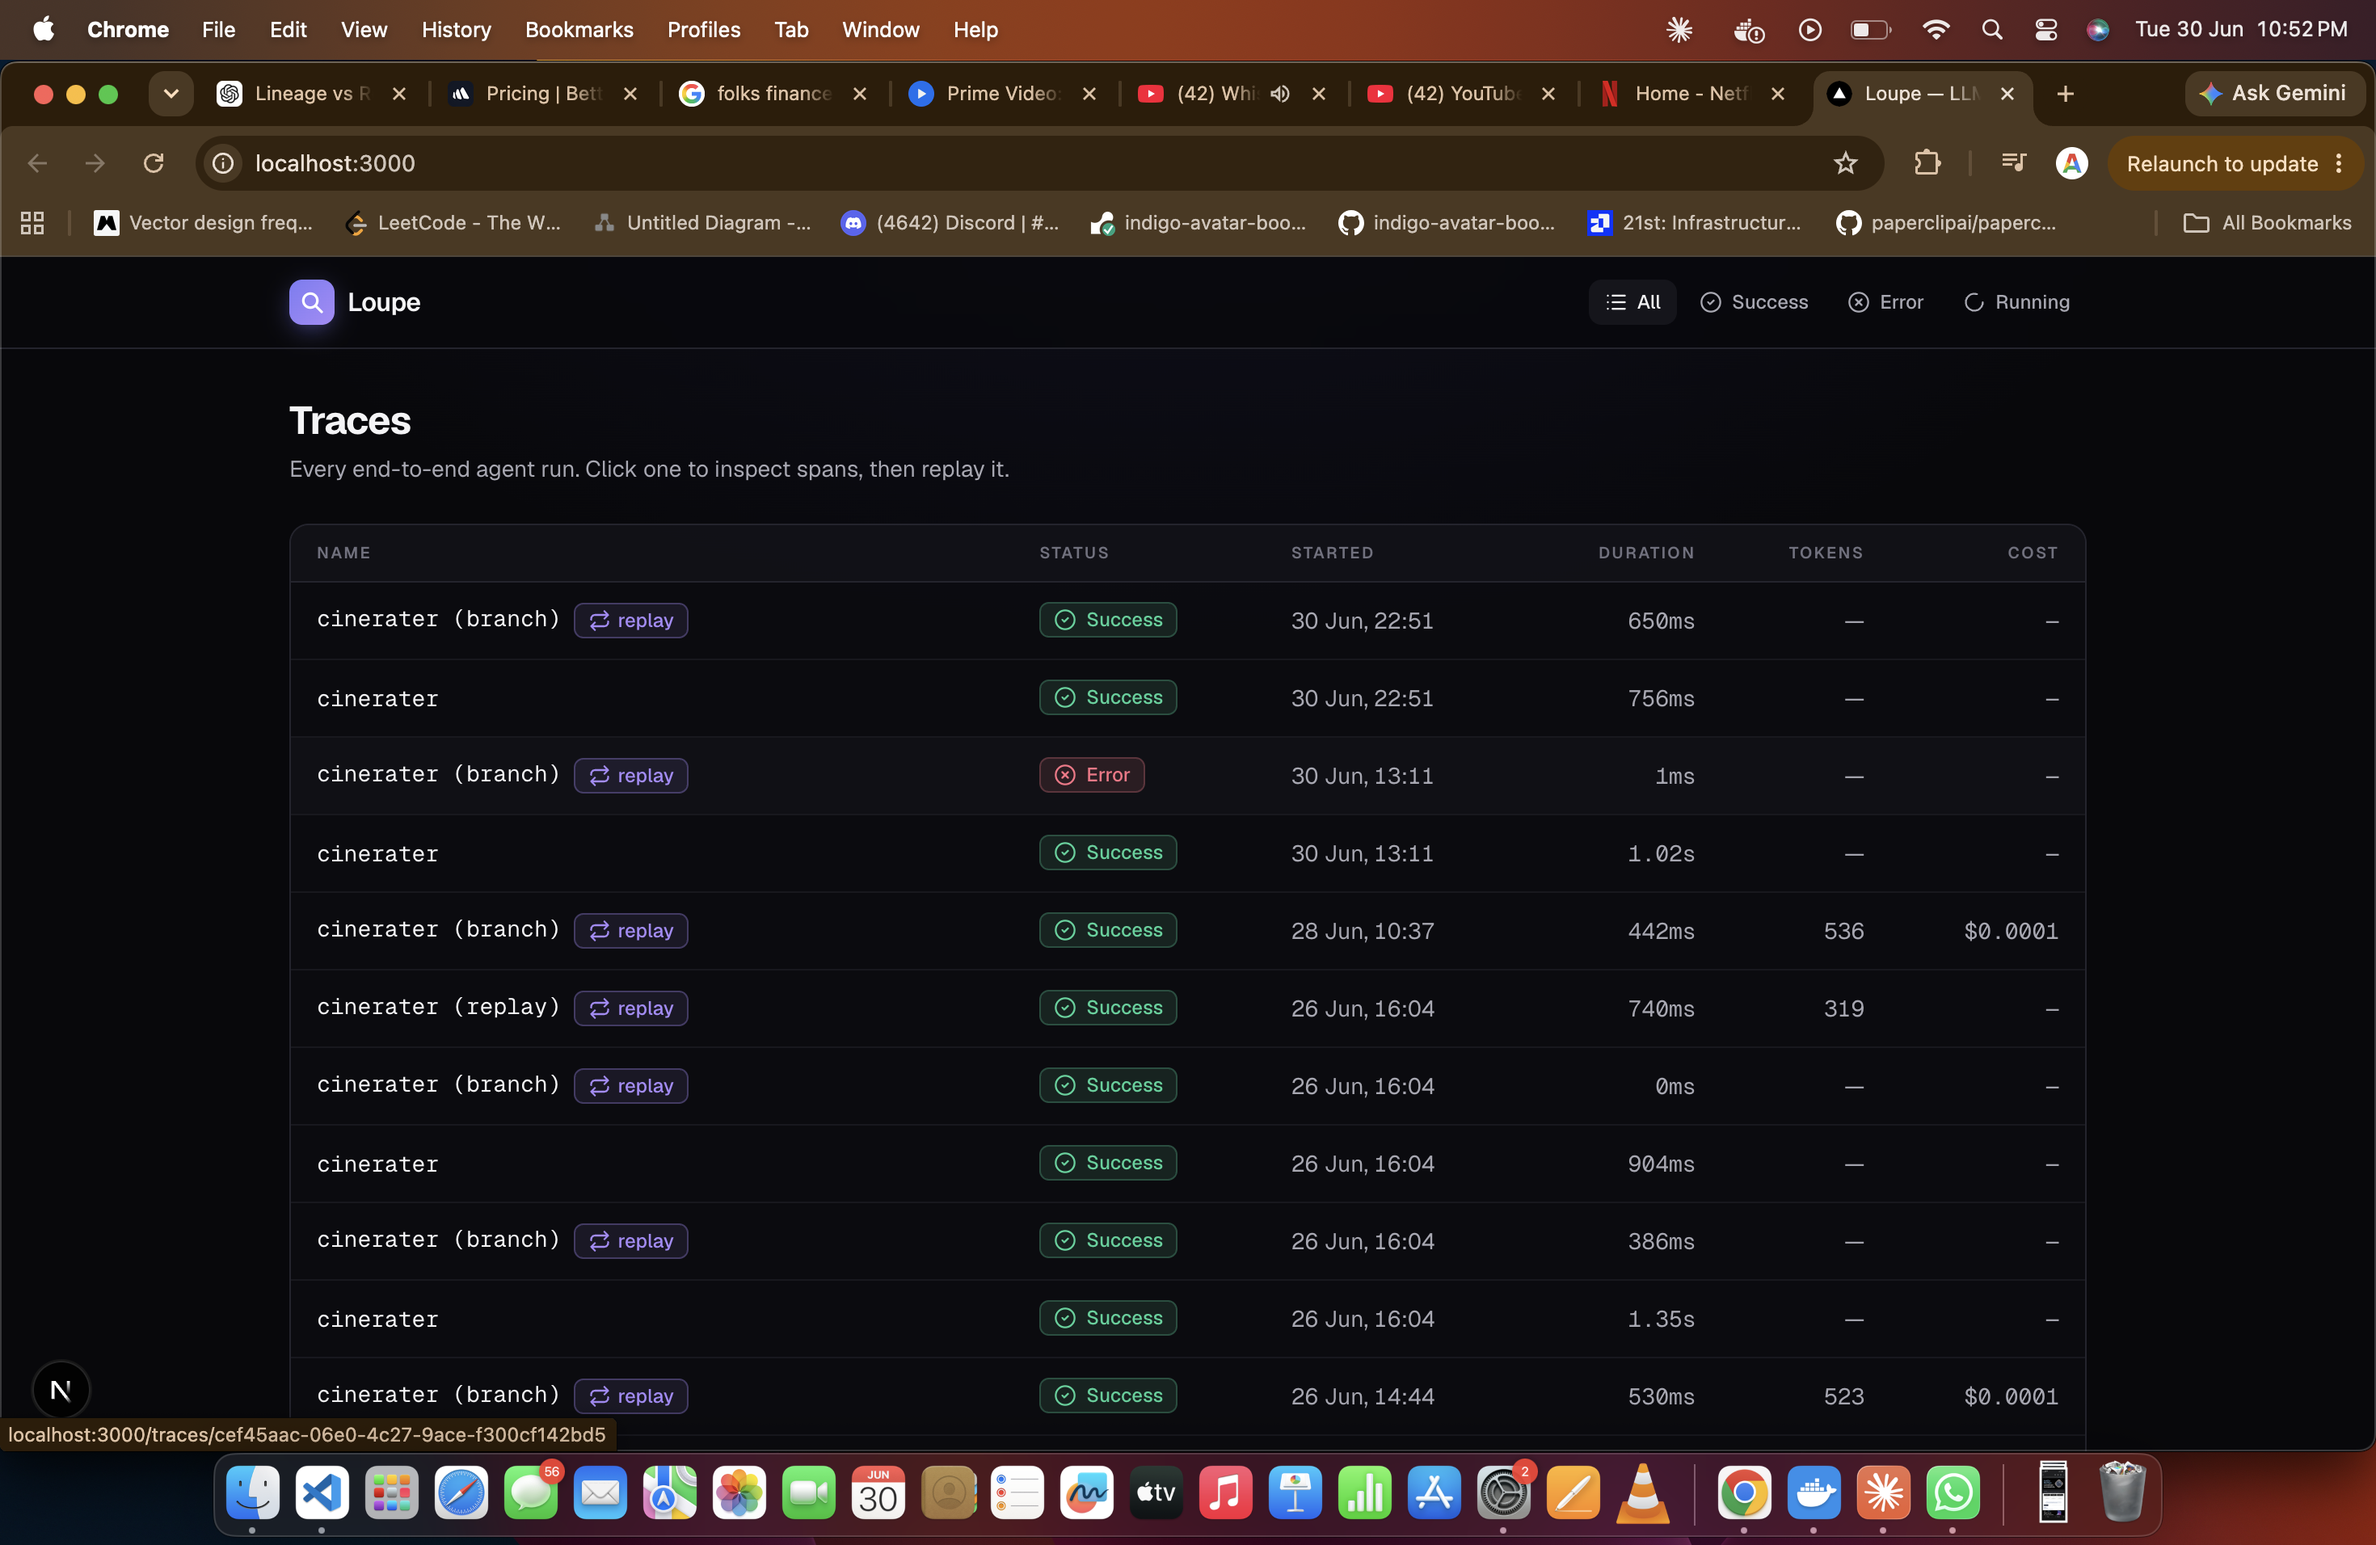
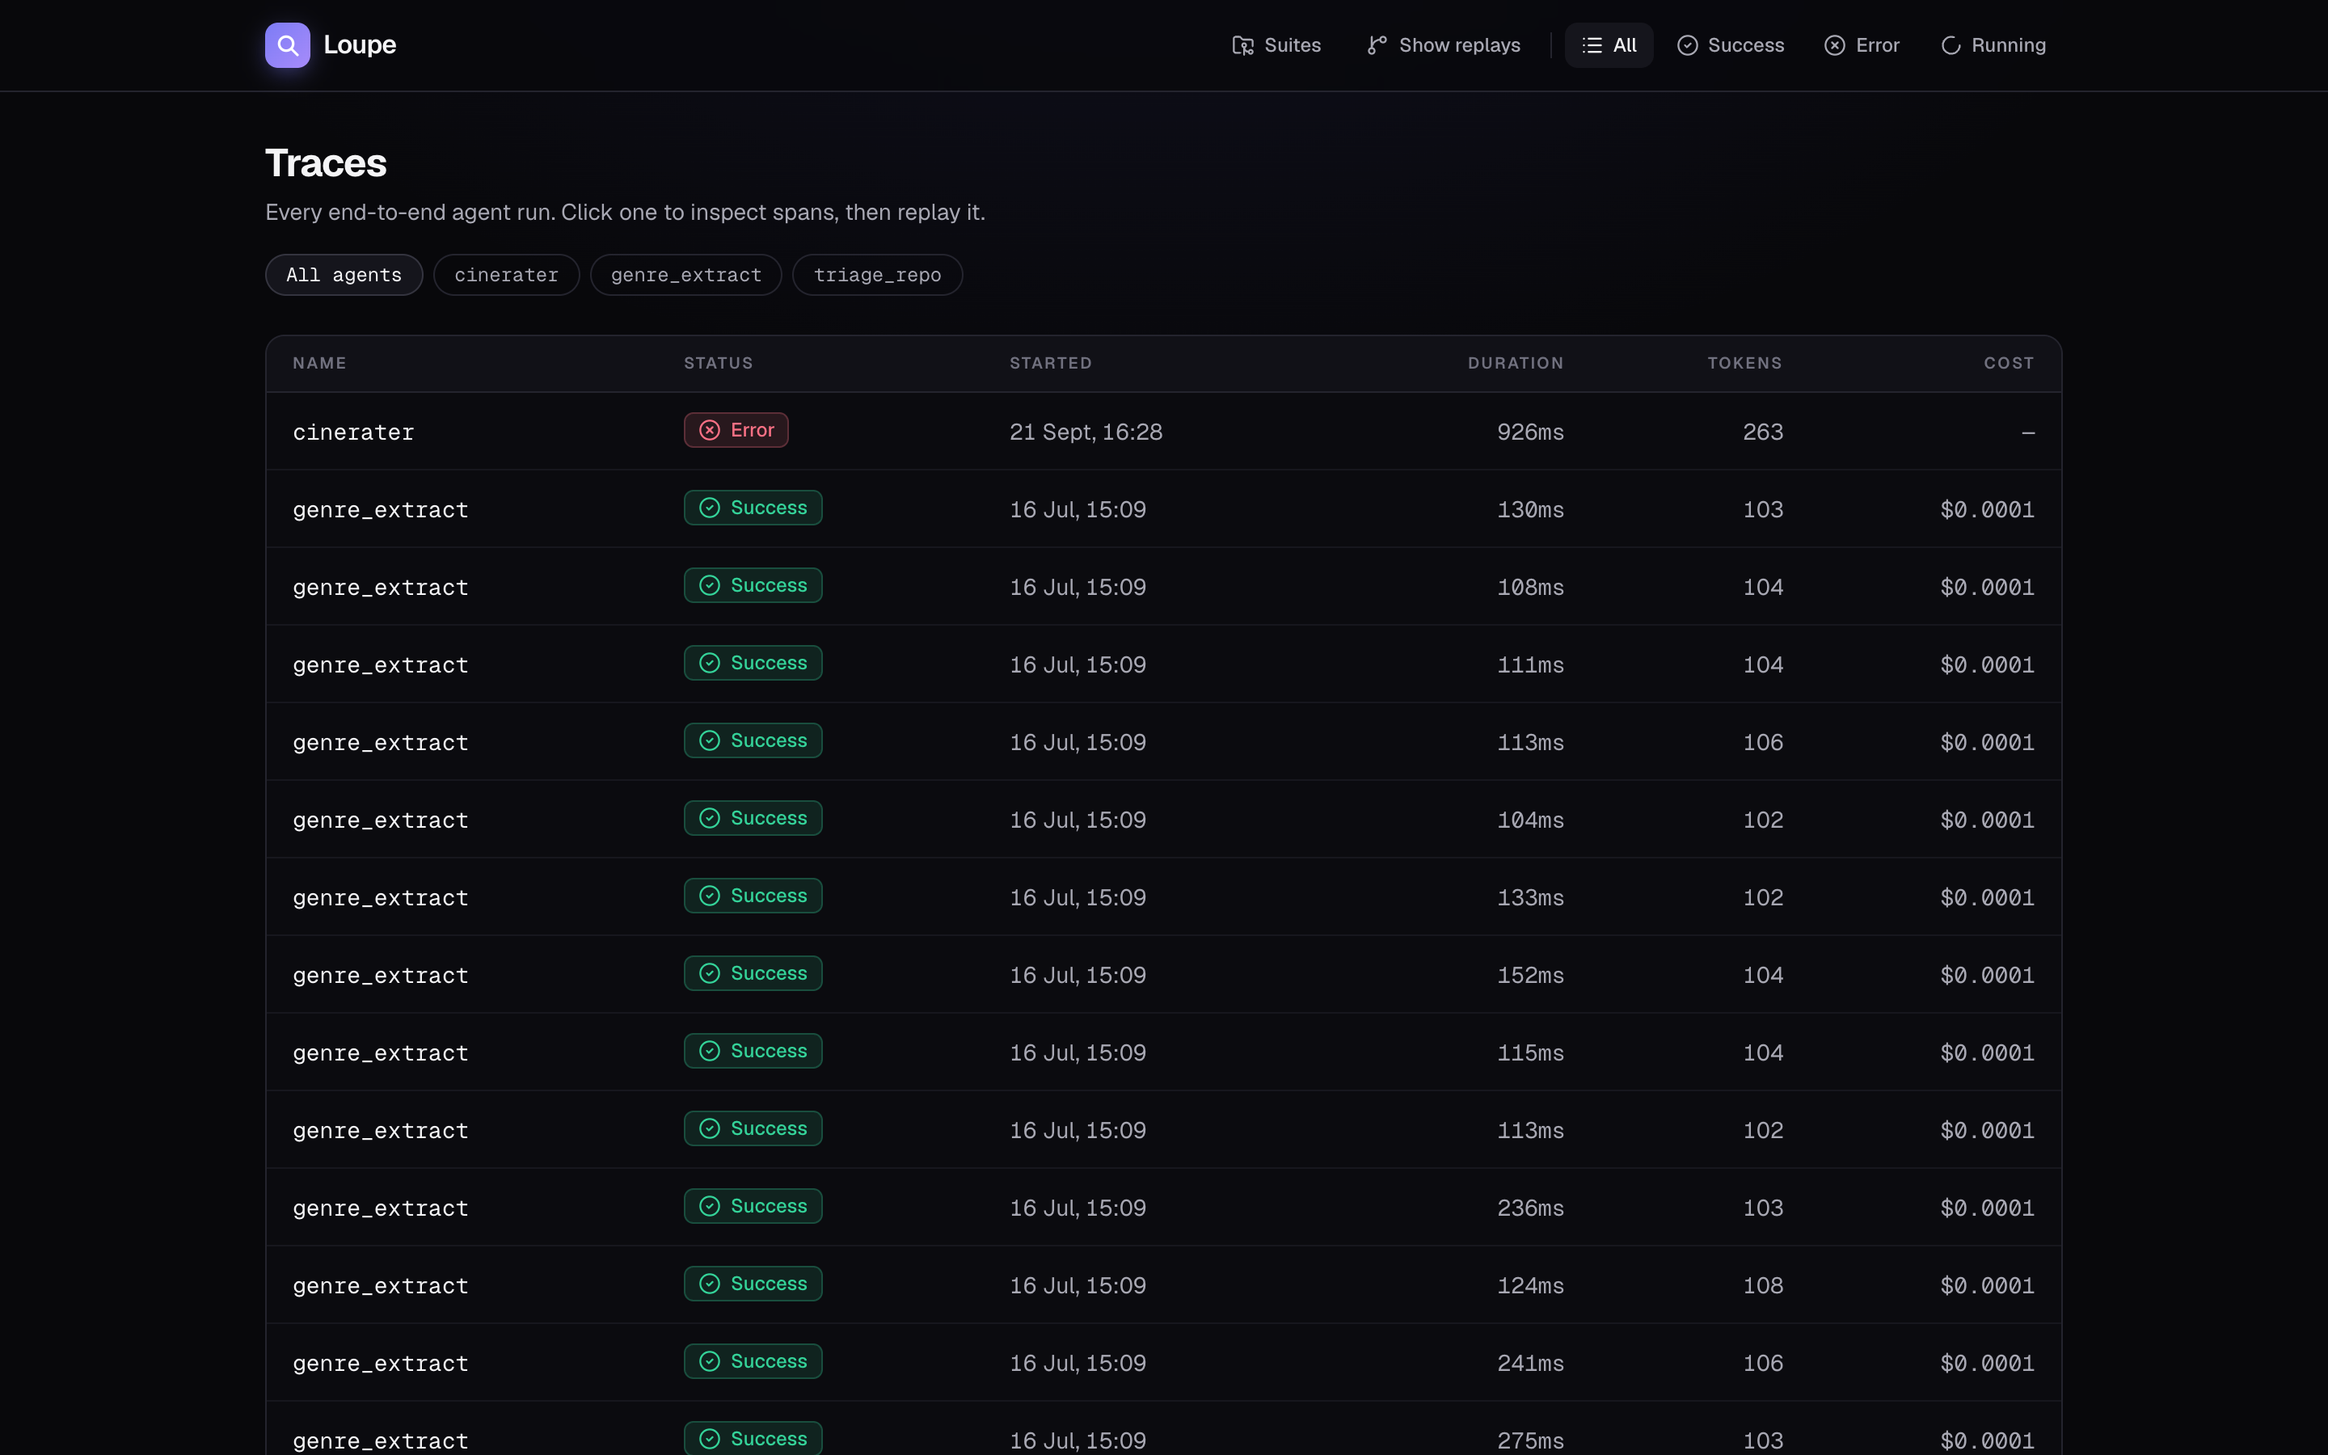
docs: new README screenshots from production, in killer-demo order (DR-05)
The old traces-list and trace-detail shots predated the agent chips and the
landing page, and there was no screenshot of a run being fixed.

Three new shots, dark theme at 2x: the failed CineRater run leading the
list, the span tree with the wrong parse output and "Branch from here", and
the diff reading "Branch fixed the run: error -> success". The README now
walks those three in order and keeps the SDK-replay trio below as the
deeper case where the edit propagates through real tools.

Two problems caught while shooting: a cinerater-filtered list showed empty
Tokens and Cost columns (those seeded runs carry neither), and the first
detail shot was framed mid-page with the failure block off-screen.

diff --git a/README.md b/README.md
@@ -22,11 +22,29 @@ That replay loop is the whole point. Everything else exists to serve it.
 
 ## Screenshots
 
-| Traces list | Trace detail (span tree) |
-|---|---|
-| ![Traces list](docs/traces-list.png) | ![Trace detail](docs/trace-detail.png) |
+**The whole point, in three screens.** CineRater is asked for a sci-fi classic from 1997.
+The catalogue only holds 2022-2025 films, so the parse step returns a year nothing matches,
+the search comes back empty, and the agent crashes on the empty list.
 
-**The branch diff** — original vs counterfactual, aligned from the branch point, with per-span text diffs. Here a parse step is branched from `Sci-Fi` → `Comedy`; the edit propagates through the real tools and the final recommendation changes (Dune → Poor Things):
+**1. The failed run leads the list**, next to every other run with its latency, tokens and cost.
+
+![Traces list](docs/traces-list.png)
+
+**2. The span tree shows which step went wrong** — the LLM returned
+`{"genre":"Sci-Fi","year":1997}`, and `search_movies` found nothing. `Branch from here`
+appears on that span, because something ran after it.
+
+![Trace detail — the failed run and the span that caused it](docs/trace-detail.png)
+
+**3. Change that one output to `2023` and re-run from there.** The branch is compared
+against the original from the branch point onward:
+
+![Branch diff — error to success](docs/branch-fixed.png)
+
+A server-side branch re-runs LLM calls but leaves tools as dry-run ghosts, which is why
+`search_movies` above shows what it *would have* called. For a branch where the edit flows
+through the real tools, `loupe.replay` runs it from your own code — here a parse step
+branched from `Sci-Fi` → `Comedy` changes the final recommendation (Dune → Poor Things):
 
 ![Branch diff — header, deltas, and the edited span](docs/branch-diff-1.png)
 ![Branch diff — the change propagating downstream](docs/branch-diff-2.png)
